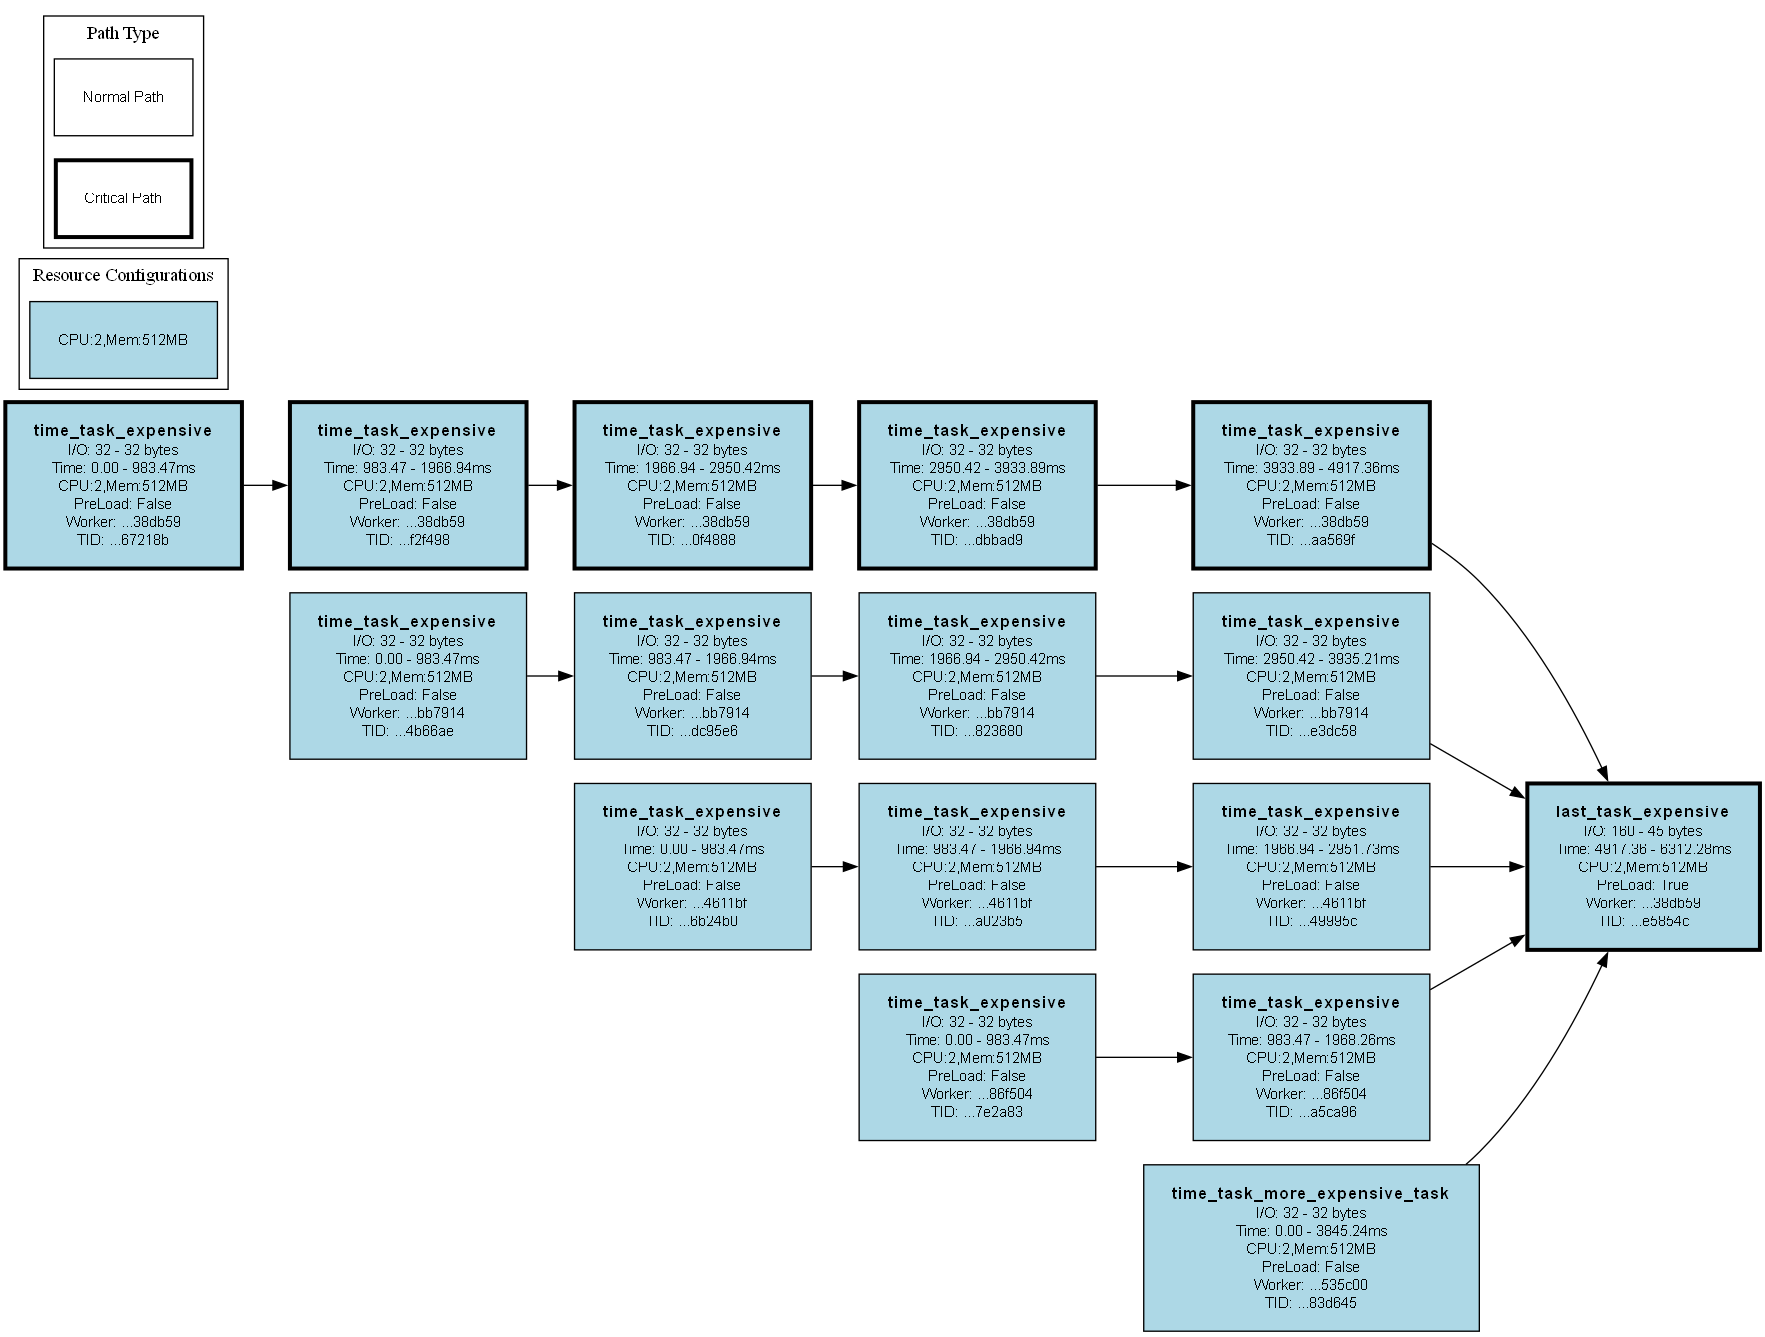
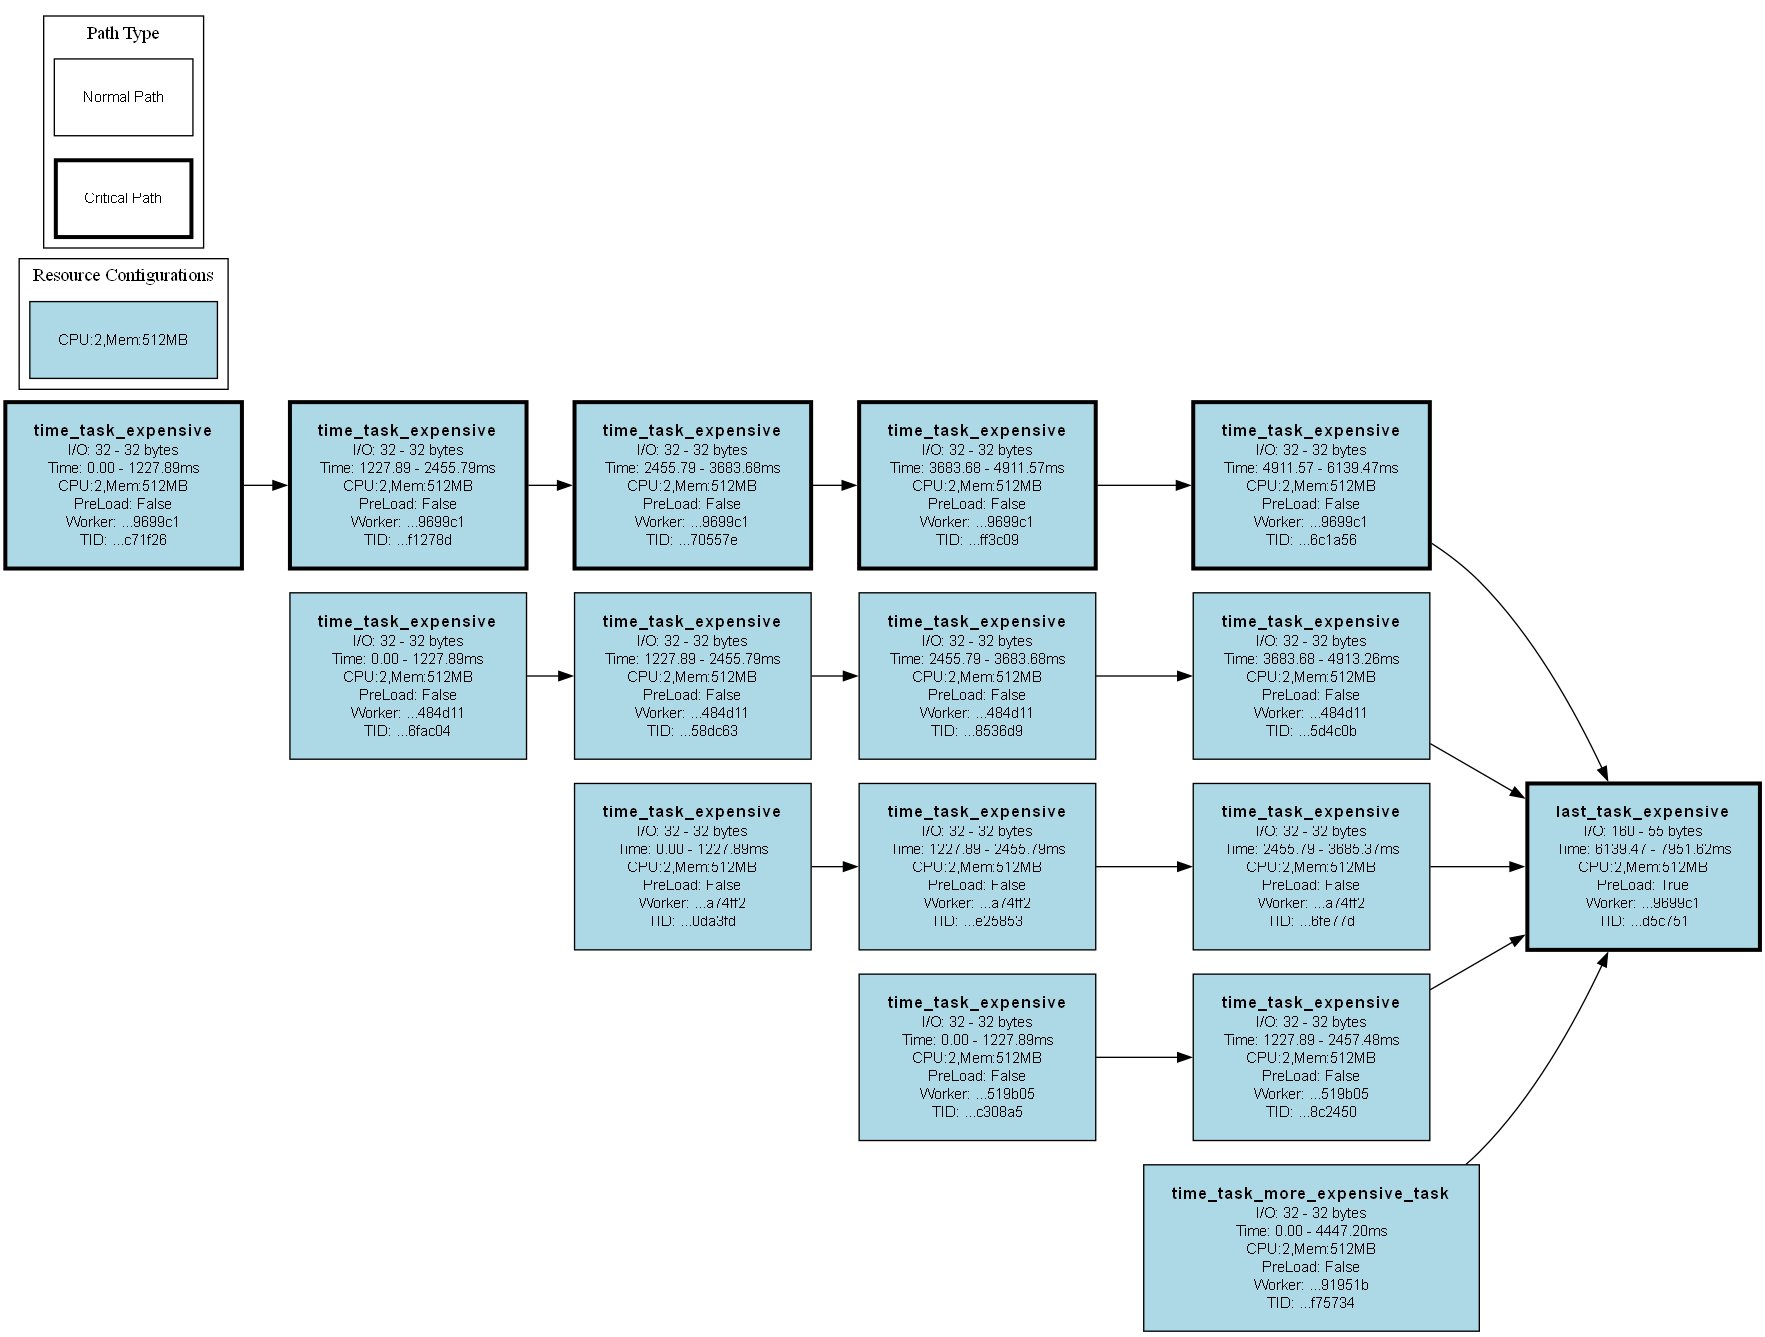
fixed makespan calculations on the dashboard

diff --git a/_metadata_analysis/metadata_analysis.py b/_metadata_analysis/metadata_analysis.py
@@ -99,7 +99,7 @@ def main():
     function_groups = set()
     
     _task_with_earliest_start_time = None
-    _task_with_latest_start_time = None
+    _sink_task_metrics = None
     for task_id in dag._all_nodes.keys():
         metrics_key = f"{MetricsStorage.TASK_METRICS_KEY_PREFIX}{task_id}_{dag.master_dag_id}"
         metrics_data = metrics_redis.get(metrics_key)
@@ -110,11 +110,11 @@ def main():
         func_name = dag._all_nodes[task_id].func_name
         function_groups.add(func_name)
 
-        if _task_with_earliest_start_time is None or metrics.started_at_timestamp < _task_with_earliest_start_time.started_at_timestamp:
-            _task_with_earliest_start_time = metrics
+        if task_id == dag.sink_node.id.get_full_id():
+            _sink_task_metrics = metrics
 
-        if _task_with_latest_start_time is None or metrics.started_at_timestamp > _task_with_latest_start_time.started_at_timestamp:
-            _task_with_latest_start_time = metrics
+        if _task_with_earliest_start_time is None or metrics.started_at_timestamp_s < _task_with_earliest_start_time.started_at_timestamp_s:
+            _task_with_earliest_start_time = metrics
 
         total_time_invoking_tasks_ms += metrics.total_invocation_time_ms
         total_time_updating_dependency_counters_ms += metrics.update_dependency_counters_time_ms
@@ -134,7 +134,7 @@ def main():
         # Prepare data for visualization
         task_metrics_data.append({
             'task_id': task_id,
-            'task_started_at': datetime.fromtimestamp(metrics.started_at_timestamp).strftime("%Y-%m-%d %H:%M:%S:%f"),
+            'task_started_at': datetime.fromtimestamp(metrics.started_at_timestamp_s).strftime("%Y-%m-%d %H:%M:%S:%f"),
             'function_name': func_name,
             'execution_time_ms': metrics.execution_time_ms,
             'worker_id': metrics.worker_resource_configuration.worker_id,
@@ -145,9 +145,11 @@ def main():
             'output_size': metrics.output_metrics.size_bytes if metrics.output_metrics else 0,
             'downstream_calls': metrics.total_invocations_count
         })
+    
+    assert _sink_task_metrics
 
-    last_task_total_time = (_task_with_latest_start_time.started_at_timestamp * 1000) + _task_with_latest_start_time.total_input_download_time_ms + _task_with_latest_start_time.execution_time_ms + _task_with_latest_start_time.output_metrics.time_ms + _task_with_latest_start_time.total_invocation_time_ms # type: ignore
-    makespan_ms = last_task_total_time - (_task_with_earliest_start_time.started_at_timestamp * 1000) # type: ignore
+    sink_task_ended_timestamp_ms = (_sink_task_metrics.started_at_timestamp_s * 1000) + _sink_task_metrics.total_input_download_time_ms + _sink_task_metrics.execution_time_ms + _sink_task_metrics.output_metrics.time_ms + _sink_task_metrics.total_invocation_time_ms # type: ignore
+    makespan_ms = sink_task_ended_timestamp_ms - (_task_with_earliest_start_time.started_at_timestamp_s * 1000) # type: ignore
 
     keys = metrics_redis.keys('metrics-storage-dag-*')
     total_time_downloading_dag_ms = 0

diff --git a/_metadata_analysis/md_raw.py b/_metadata_analysis/md_raw.py
@@ -29,7 +29,7 @@ def print_task_metrics(task_id: str, m: TaskMetrics):
     print(f"> Task Id: {task_id}")
     print(f"\tWorker Id: {m.worker_resource_configuration.worker_id}")
     print(f"\tWorker Resource Configuration: {m.worker_resource_configuration}")
-    print(f"\tStarted At Timestamp: {m.started_at_timestamp}")
+    print(f"\tStarted At Timestamp: {m.started_at_timestamp_s}")
     print(f"\tInput Metrics Len: {len(m.input_metrics)} | Sum: {sum(input_metric.size_bytes for input_metric in m.input_metrics)} bytes")
     print(f"\tHardcoded Input Metrics Len: {len(m.hardcoded_input_metrics)} | Sum: {sum(h_input_metric.size_bytes for h_input_metric in m.hardcoded_input_metrics)} bytes")
     print(f"\tTotal Input Download Time: {m.total_input_download_time_ms} ms")

diff --git a/src/storage/metrics/metrics_types.py b/src/storage/metrics/metrics_types.py
@@ -39,7 +39,7 @@ class TaskInvocationMetrics:
 @dataclass
 class TaskMetrics:
     worker_resource_configuration: TaskWorkerResourceConfiguration
-    started_at_timestamp: float # time at which the task started being processed by a worker
+    started_at_timestamp_s: float # time at which the task started being processed by a worker
     input_metrics: list[TaskInputMetrics]
     hardcoded_input_metrics: list[TaskHardcodedInputMetrics] # known ahead of time (not "lazy", not DAGTasks)
     total_input_download_time_ms: float # time to download all inputs (improves if we download inputs in parallel => this wouldn't be visible just with the input_metrics)

diff --git a/src/workers/worker.py b/src/workers/worker.py
@@ -58,7 +58,7 @@ class Worker(ABC, WorkerExecutionLogic):
             while True:
                 task_metrics = TaskMetrics(
                     worker_resource_configuration=my_resource_configuration_with_flexible_worker_id,
-                    started_at_timestamp = time.time(),
+                    started_at_timestamp_s = time.time(),
                     input_metrics = [],
                     hardcoded_input_metrics = [],
                     total_input_download_time_ms = 0,

diff --git a/TODO.md b/TODO.md
@@ -1,13 +1,6 @@
-[ISSUE] Planners predictions are not very accurate with reality!
-    1 => Experiment with simple planner (change flexible workers to struct workers)
-    2 => experiment with `FirstPlannerAlgorithm` w/o PreLoad
-    3 => experiment with `FirstPlannerAlgorithm` w/ PreLoad
-    4 => experiment with `SecondPlannerAlgorithm`
-    _
-    [=>] [VISUALIZATION] On the `metadata_analysis.py` dashboard think of how to compare the plan against the final result
-        - BEFORE: Dashboard makespan (5 sec) VS client console (9 sec) time big diff.
-        - for each task, show `planned_download_inputs time vs real`, `planned_exec_time vs real`, etc...
-        - can I show a general percentage offset of how wrong the plan predictions were?
+[VISUALIZATION:PLANNER] On the `metadata_analysis.py` dashboard think of how to compare the plan against the final result
+- For each task, show `planned_download_inputs time vs real`, `planned_exec_time vs real`, etc...
+- Can I show a general percentage offset of how wrong the plan predictions were?
 
 [THINK:OPTIMIZATIONS_IMPL]
 - `pre-warm` + `pre-load`
